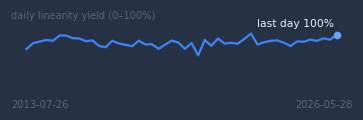
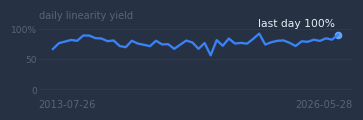
Model chart x-axis tracks the window; sparkline y-scale; triage sigma gloss
- focus_chart: set xlim explicitly from rendered data every render.
  matplotlib's lazy autoscale never shrank the reused axes, so after 'All'
  every window kept the decade-wide range with data bunched right
  (reproduced: xlim identical across All/365d/90d before fix)
- chart_qa_render_all: window-switch regression check on a reused
  FocusChart (All -> 90d must shrink the axis or the sweep raises)
- mini_trend_chart: real y-ticks 0/50/100% + faint gridlines so values
  can be read off the sparkline
- flagged_cards_zone: plain-language sigma / 'Out Of Control' caption under
  the Needs-attention heading (model page had it; cards did not)
- SESSION_2026-07-08.md: items 5-7

diff --git a/scripts/chart_qa_render_all.py b/scripts/chart_qa_render_all.py
@@ -182,6 +182,31 @@ def main(out_dir: str) -> int:
         _save(fc, out / f"focus_{model}_{metric}.png", manifest,
               f"FocusChart {model}/{metric} n={len(v)} — {note}")
 
+    # ---- 1b. Window-switch regression (2026-07-08). One REUSED FocusChart,
+    # All -> narrow window: the x-axis must track the new data, not hold the
+    # widest range ever rendered (matplotlib's lazy autoscale never shrank it,
+    # so after 'All' every window showed a decade with data bunched right).
+    import matplotlib.dates as _mdt
+    from datetime import timedelta as _td
+    d_all, v_all, (bm_, bs_) = series("8340-1", "untrimmed_error_max")
+    fc = _focus()
+    fc.set_series("untrimmed_error_max", d_all, v_all, baseline_mean=bm_, baseline_std=bs_)
+    wide = fc._ax.get_xlim()
+    cut = max(d_all) - _td(days=90)
+    d_n, v_n = zip(*[(d, v) for d, v in zip(d_all, v_all) if d >= cut])
+    fc.set_series("untrimmed_error_max", list(d_n), list(v_n),
+                  baseline_mean=bm_, baseline_std=bs_)
+    narrow = fc._ax.get_xlim()
+    wide_span, narrow_span = wide[1] - wide[0], narrow[1] - narrow[0]
+    data_span = _mdt.date2num(max(d_n)) - _mdt.date2num(min(d_n))
+    if narrow_span > max(data_span * 1.5, 30.0):
+        raise AssertionError(
+            f"WINDOW-SWITCH REGRESSION: 90d xlim spans {narrow_span:.0f} days "
+            f"(data {data_span:.0f}d; previous All render {wide_span:.0f}d) — "
+            "x-axis is holding the old window")
+    _save(fc, out / "focus_8340-1_window_switch.png", manifest,
+          f"FocusChart window-switch: All(xlim {wide_span:.0f}d) -> 90d(xlim {narrow_span:.0f}d) — axis tracks the window")
+
     # ---- 2. Company trend ----
     for days, period in [(90, "week"), (365, "month"), (36500, "month"), (30, "week")]:
         cc = _company()

diff --git a/src/laser_trim_analyzer/gui/v6/widgets/mini_trend_chart.py b/src/laser_trim_analyzer/gui/v6/widgets/mini_trend_chart.py
@@ -53,7 +53,15 @@ class MiniTrendChart(ctk.CTkFrame):
             # sparkline — an unreadable solid block. Average into <=_MAX_POINTS evenly
             # spaced buckets so the trend stays legible at any window length.
             ys_ds = self._downsample(ys, self._MAX_POINTS)
-            ax.plot(range(len(ys_ds)), ys_ds, lw=1.5, color=t.ACCENT)
+            # Readable y-scale (user finding, 2026-07-08): the "(0–100%)" range
+            # note wasn't enough to READ a value off the line — a dip needs a
+            # number. Real ticks at 0/50/100 with faint gridlines.
+            ax.set_yticks([0, 50, 100])
+            ax.set_yticklabels(["0", "50", "100%"], fontsize=6, color=t.TEXT_DISABLED)
+            ax.tick_params(axis="y", length=0, pad=1)
+            for gy in (0, 50, 100):
+                ax.axhline(gy, color=t.TEXT_DISABLED, lw=0.5, alpha=0.22, zorder=1)
+            ax.plot(range(len(ys_ds)), ys_ds, lw=1.5, color=t.ACCENT, zorder=3)
             ax.set_ylim(-14, 112)   # headroom for the labels below/above
             # Latest value, marked and named — the number the eye wants.
             ax.plot([len(ys_ds) - 1], [ys_ds[-1]], marker="o", ms=4, color=t.ACCENT_HOVER)
@@ -69,7 +77,7 @@ class MiniTrendChart(ctk.CTkFrame):
                     va="top", fontsize=6.5, color=t.TEXT_DISABLED)
             ax.text(1.0, -0.02, f"{last_d}", transform=ax.transAxes, ha="right",
                     va="top", fontsize=6.5, color=t.TEXT_DISABLED)
-            ax.text(0.0, 1.02, f"{label} (0–100%)", transform=ax.transAxes,
+            ax.text(0.0, 1.02, label, transform=ax.transAxes,
                     ha="left", va="bottom", fontsize=6.5, color=t.TEXT_DISABLED)
         else:
             ax.text(0.5, 0.5, "no trend", transform=ax.transAxes, ha="center", va="center",

diff --git a/src/laser_trim_analyzer/gui/v6/widgets/flagged_cards_zone.py b/src/laser_trim_analyzer/gui/v6/widgets/flagged_cards_zone.py
@@ -23,7 +23,17 @@ class FlaggedCardsZone(ctk.CTkFrame):
         self._heading = ctk.CTkLabel(self, text="Needs attention (0)",
                                      font=theme.font(theme.SIZE_HEADING, "bold"),
                                      text_color=theme.TEXT_PRIMARY, anchor="w")
-        self._heading.pack(side="top", fill="x", pady=(0, theme.SPACE_SM))
+        self._heading.pack(side="top", fill="x", pady=(0, theme.SPACE_XS))
+        # Plain-language key for the card numbers. The Model page had this
+        # gloss but the cards themselves didn't — σ appeared here unexplained
+        # (user finding, 2026-07-08).
+        ctk.CTkLabel(self,
+                     text=("σ = standard deviations from the model's trained baseline — how far "
+                           "the recent average has moved. 'Out Of Control' = past the alert "
+                           "limit for your sensitivity preset. A drift watch signal, not a spec."),
+                     font=theme.font(theme.SIZE_CAPTION), text_color=theme.TEXT_SECONDARY,
+                     anchor="w", justify="left", wraplength=1200)\
+            .pack(side="top", fill="x", pady=(0, theme.SPACE_SM))
         # Scrollable, height-bounded card area. Before this the cards rendered into a
         # plain frame with no scroll, so 30-50 flagged cards overflowed the page and
         # pushed the browse list off-screen with no way to reach them.

diff --git a/src/laser_trim_analyzer/gui/v6/widgets/focus_chart.py b/src/laser_trim_analyzer/gui/v6/widgets/focus_chart.py
@@ -197,6 +197,17 @@ class FocusChart(ctk.CTkFrame):
             ax.text(0.99, 0.97, f"▲ {len(off_vals)} off-scale (max {ext:.3g})",
                     transform=ax.transAxes, ha="right", va="top", fontsize=8,
                     color=mark_color)
+        # ---- Explicit x-window (2026-07-08). Autoscale is LAZY and, on this
+        # reused axes, held the widest range ever rendered: after viewing
+        # 'All' (stretched to 2015 by one stray file), switching back to
+        # 365d/90d kept the decade-wide axis and bunched all data at the
+        # right. The window the user picked IS the x-range — set it from the
+        # data every render instead of trusting autoscale to shrink.
+        d0, d1 = min(dates), max(dates)
+        span = (d1 - d0)
+        from datetime import timedelta as _td
+        xpad = max(span * 0.02, _td(days=1))
+        ax.set_xlim(d0 - xpad, d1 + xpad)
         ax.legend(loc="best", fontsize=8, facecolor=t.CARD, edgecolor=t.BORDER, labelcolor=t.TEXT_SECONDARY)
         self._fig.tight_layout()
         self.canvas.draw_idle()

diff --git a/docs/SESSION_2026-07-08.md b/docs/SESSION_2026-07-08.md
@@ -58,6 +58,39 @@ via FinalTestResult.linked_trim_id — alongside the full trim record. Sweep
 check updated to require the FT columns; test
 `tests/test_evidence_pack_full_history.py` asserts them.
 
+## 5. Model chart: x-axis held the widest range ever rendered
+
+**Report:** "filter to all then go back to 365 or 90 and all the data is on
+the right side of the chart bunched up."
+**Root cause (reproduced headlessly):** matplotlib's lazy autoscale never
+SHRANK the reused axes — after an 'All' render (stretched to 2015 by 8340-1's
+earliest records), 365d/90d renders kept the decade-wide xlim: data occupied
+the right sliver. Reproduction showed xlim identical (2014-10..2026-12) across
+All/365d/90d before the fix.
+**Fix (focus_chart.py):** set_series now sets xlim explicitly from the
+rendered data (min..max + 2% pad, ≥1 day) every render — the user's window IS
+the x-range. Regression check added to chart_qa_render_all.py: a reused
+FocusChart rendered All→90d must produce a 90d-sized axis or the sweep raises.
+**Data note:** `8340-1_83_WIPER POS TEST.xls` (2015-05-18) is the only
+TEST-style filename in the DB; the rest of the pre-2020 history (28,959 rows
+back to 2013) is legitimate. No cleanup needed.
+
+## 6. Sparklines: range note wasn't a readable scale
+
+**Report:** "dashboard charts still dont have an axis label to tell what the
+yeild is." The "(0–100%)" suffix said what the range was but a dip still had
+no number.
+**Fix (mini_trend_chart.py):** real y-ticks at 0/50/100% with faint gridlines;
+label simplified to "daily linearity yield".
+
+## 7. σ unexplained on the Needs-attention cards
+
+**Report:** "i still dont know what the symbol is on the triage page." The
+Model page had the σ gloss; the Dashboard cards didn't.
+**Fix (flagged_cards_zone.py):** caption under the "Needs attention" heading:
+σ = standard deviations from the model's trained baseline; 'Out Of Control' =
+past the alert limit for the sensitivity preset; drift watch, not a spec.
+
 ## Verification
 
 * `scripts/app_qa_sweep.py`: 37 checks, 0 FAIL, 1 WARN (the disclosed
